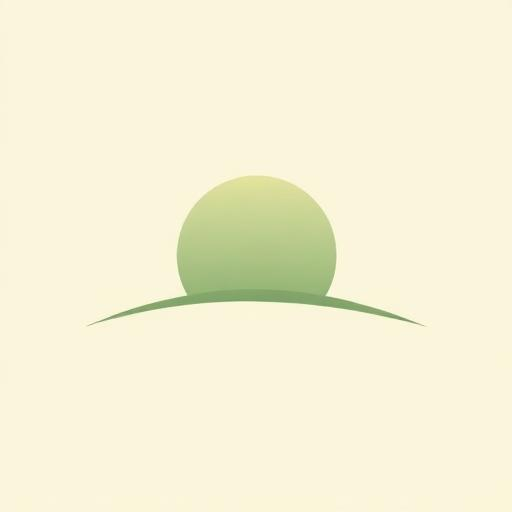
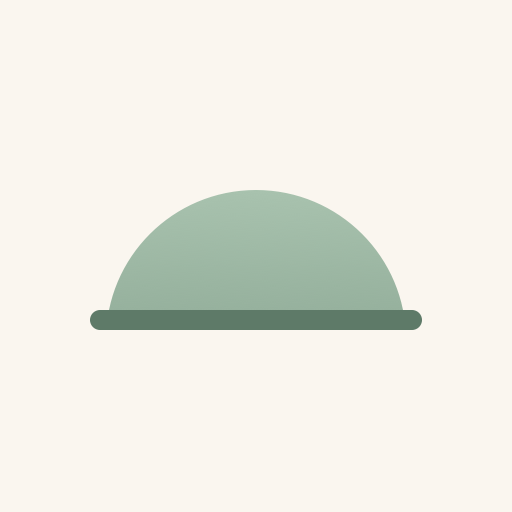
Ícono sol naciente + auditoría exhaustiva pre-publicación
- Ícono: marca cambia de carita triste a sol naciente sobre horizonte; PNG instalables regenerados (arregla icon-192 que medía 512); SVG fuente en repo
- Fuentes: Pauline Boss pasa a cita/mención (sin link a sitio en inglés)
- Directorio: nota para La Guaira y otros estados deriva a 911/Protección Civil nacional, sin inventar número
- Lenguaje: 3 frases en futuro pasadas a presente (training, contacto, niño)
- SEO: elimina meta tags duplicados/inconsistentes en __root
- tel: 3 enlaces locales pasados a formato internacional +58
- PWA: SW v2 cachea fuentes de Google offline; recachea íconos
- A11y: tap targets, aria-labels, BreathingCircle responsive

Changed region(s): [[0.1562, 0.3125, 0.8438, 0.6562]]

diff --git a/src/routes/fuentes.tsx b/src/routes/fuentes.tsx
@@ -17,7 +17,14 @@ export const Route = createFileRoute("/fuentes")({
   component: Fuentes,
 });
 
-const FUENTES = [
+type Fuente = {
+  title: string;
+  body: string;
+  href?: string;
+  source: string;
+};
+
+const FUENTES: Fuente[] = [
   {
     title: "Primeros Auxilios Psicológicos (PAP)",
     body: "Guía de la OMS y la OPS para trabajadores de campo, avalada por el IASC y el Proyecto Esfera.",
@@ -44,9 +51,8 @@ const FUENTES = [
   },
   {
     title: "Pauline Boss",
-    body: "Pérdida ambigua, para familiares de personas no encontradas.",
-    href: "https://www.ambiguousloss.com/",
-    source: "ambiguousloss.com",
+    body: "Concepto de pérdida ambigua, para familiares de personas no encontradas.",
+    source: "Trabajo de la investigadora Pauline Boss, Universidad de Minnesota.",
   },
 ];
 
@@ -57,27 +63,35 @@ function Fuentes() {
       <h1 className="mt-2 font-serif text-3xl text-foreground">¿En qué se basa Serena?</h1>
       <p className="mt-5 text-base leading-relaxed text-foreground/85">
         Todo el contenido de Serena se basa en protocolos reconocidos de apoyo psicológico en
-        emergencias. Cada fuente abre su documento oficial:
+        emergencias. Cuando hay un documento oficial en línea, la fuente abre directo:
       </p>
 
       <ul className="mt-6 space-y-3">
-        {FUENTES.map((f) => (
-          <li key={f.title}>
-            <a
-              href={f.href}
-              target="_blank"
-              rel="noopener noreferrer"
-              className="serena-card flex items-start gap-3 p-5 transition-colors hover:bg-secondary"
-            >
-              <div className="min-w-0 flex-1">
-                <p className="font-serif text-base text-foreground">{f.title}</p>
-                <p className="mt-1.5 text-sm leading-relaxed text-muted-foreground">{f.body}</p>
-                <p className="mt-2 text-xs text-primary">{f.source}</p>
-              </div>
-              <ExternalLink size={16} className="mt-1 shrink-0 text-muted-foreground" />
-            </a>
-          </li>
-        ))}
+        {FUENTES.map((f) =>
+          f.href ? (
+            <li key={f.title}>
+              <a
+                href={f.href}
+                target="_blank"
+                rel="noopener noreferrer"
+                className="serena-card flex items-start gap-3 p-5 transition-colors hover:bg-secondary"
+              >
+                <div className="min-w-0 flex-1">
+                  <p className="font-serif text-base text-foreground">{f.title}</p>
+                  <p className="mt-1.5 text-sm leading-relaxed text-muted-foreground">{f.body}</p>
+                  <p className="mt-2 text-xs text-primary">{f.source}</p>
+                </div>
+                <ExternalLink size={16} className="mt-1 shrink-0 text-muted-foreground" />
+              </a>
+            </li>
+          ) : (
+            <li key={f.title} className="serena-card p-5">
+              <p className="font-serif text-base text-foreground">{f.title}</p>
+              <p className="mt-1.5 text-sm leading-relaxed text-muted-foreground">{f.body}</p>
+              <p className="mt-2 text-xs text-muted-foreground">{f.source}</p>
+            </li>
+          ),
+        )}
       </ul>
 
       <p className="mt-8 text-sm leading-relaxed text-foreground/85">

diff --git a/src/lib/training.ts b/src/lib/training.ts
@@ -26,7 +26,7 @@ export const TRAINING: TrainingModule[] = [
       {
         heading: "Tu presencia basta",
         body: "Lo más valioso que ofreces es estar, con calma. Esto no es terapia y no tienes que resolverlo todo.",
-        example: "No necesitas la frase perfecta. A veces basta con: «aquí estoy, no te voy a dejar solo.»",
+        example: "No necesitas la frase perfecta. A veces basta con: «aquí estoy, no te dejo solo.»",
       },
       {
         heading: "Qué NO es",
@@ -149,7 +149,7 @@ export const TRAINING: TrainingModule[] = [
       {
         heading: "No prometas de más",
         body: "Di lo que sabes; no inventes servicios que quizá no existen.",
-        example: "Mejor «voy a averiguar dónde dan agua» que «ya viene la ayuda».",
+        example: "Mejor «busco dónde dan agua» que «ya viene la ayuda».",
       },
     ],
   },
@@ -248,7 +248,7 @@ export const TRAINING: TrainingModule[] = [
       {
         heading: "Qué decir y qué no",
         body: "No digas «fue la voluntad de Dios», «están en un lugar mejor», «tienes que ser fuerte».",
-        example: "Sí: «Estoy aquí contigo. No te voy a dejar solo.» / «No tienes que decir nada.»",
+        example: "Sí: «Estoy aquí contigo. No te dejo solo.» / «No tienes que decir nada.»",
       },
       {
         heading: "Vigila el riesgo",

diff --git a/src/routes/__root.tsx b/src/routes/__root.tsx
@@ -94,9 +94,10 @@ export const Route = createRootRouteWithContext<{ queryClient: QueryClient }>()(
       { property: "og:type", content: "website" },
       { name: "twitter:card", content: "summary" },
       { name: "twitter:title", content: "Serena — apoyo emocional" },
-      { name: "description", content: "Serena: Tu Refugio Calmado es una PWA de apoyo emocional para momentos de crisis." },
-      { property: "og:description", content: "Serena: Tu Refugio Calmado es una PWA de apoyo emocional para momentos de crisis." },
-      { name: "twitter:description", content: "Serena: Tu Refugio Calmado es una PWA de apoyo emocional para momentos de crisis." },
+      {
+        name: "twitter:description",
+        content: "Un espacio calmado para los primeros momentos. Anónimo y privado.",
+      },
       { property: "og:image", content: "https://pub-bb2e103a32db4e198524a2e9ed8f35b4.r2.dev/73760977-34e1-486e-9ddb-98f852ee9f52/id-preview-0d93d85d--8ebf92b5-3374-4671-9b43-57dae87962f4.lovable.app-1782571978718.png" },
       { name: "twitter:image", content: "https://pub-bb2e103a32db4e198524a2e9ed8f35b4.r2.dev/73760977-34e1-486e-9ddb-98f852ee9f52/id-preview-0d93d85d--8ebf92b5-3374-4671-9b43-57dae87962f4.lovable.app-1782571978718.png" },
     ],

diff --git a/public/sw.js b/public/sw.js
@@ -1,5 +1,5 @@
 // Serena service worker — offline-first calmado.
-const VERSION = "serena-v1";
+const VERSION = "serena-v2";
 const SHELL_CACHE = `${VERSION}-shell`;
 const RUNTIME_CACHE = `${VERSION}-runtime`;
 
@@ -34,6 +34,26 @@ self.addEventListener("fetch", (event) => {
   const req = event.request;
   if (req.method !== "GET") return;
   const url = new URL(req.url);
+
+  // Fuentes de Google (cross-origin): CacheFirst para que el diseño se sostenga offline.
+  if (url.origin === "https://fonts.googleapis.com" || url.origin === "https://fonts.gstatic.com") {
+    event.respondWith(
+      (async () => {
+        const cached = await caches.match(req);
+        if (cached) return cached;
+        try {
+          const fresh = await fetch(req);
+          const cache = await caches.open(RUNTIME_CACHE);
+          cache.put(req, fresh.clone());
+          return fresh;
+        } catch {
+          return cached || Response.error();
+        }
+      })(),
+    );
+    return;
+  }
+
   if (url.origin !== self.location.origin) return;
   if (url.pathname.startsWith("/~oauth")) return;
 

diff --git a/src/components/SerenaMark.tsx b/src/components/SerenaMark.tsx
@@ -15,14 +15,21 @@ export function SerenaMark({ size = 64, className }: Props) {
           <stop offset="0%" stopColor="#A8C2AE" />
           <stop offset="100%" stopColor="#7C9885" />
         </linearGradient>
+        <clipPath id="serena-horizon">
+          <rect x="0" y="0" width="64" height="40" />
+        </clipPath>
       </defs>
-      <circle cx="32" cy="30" r="13" fill="url(#serena-sun)" />
-      <path
-        d="M6 42 Q 32 32 58 42"
+      {/* Sol naciente, recortado por el horizonte */}
+      <circle cx="32" cy="34" r="12" fill="url(#serena-sun)" clipPath="url(#serena-horizon)" />
+      {/* Horizonte recto: línea calma, no una boca */}
+      <line
+        x1="9"
+        y1="40"
+        x2="55"
+        y2="40"
         stroke="#5E7A68"
-        strokeWidth="1.6"
+        strokeWidth="2"
         strokeLinecap="round"
-        fill="none"
       />
     </svg>
   );

diff --git a/src/components/Directory.tsx b/src/components/Directory.tsx
@@ -79,6 +79,11 @@ export function Directory() {
           </ul>
         </section>
       ))}
+      <p className="rounded-2xl border border-border bg-card p-4 text-sm leading-relaxed text-muted-foreground">
+        Por ahora solo tenemos confirmada la Protección Civil de Yaracuy. Si estás en otro estado,
+        como La Guaira, marca el <span className="font-medium text-alert">911</span> o la Protección
+        Civil nacional <span className="tabular-nums">0800-7248451</span>.
+      </p>
       <p className="rounded-2xl border border-border bg-card p-4 text-center text-sm text-muted-foreground">
         Si tú o alguien corre peligro inmediato, llama al{" "}
         <span className="font-medium text-alert">911</span>.

diff --git a/src/components/BreathingCircle.tsx b/src/components/BreathingCircle.tsx
@@ -37,7 +37,7 @@ export function BreathingCircle() {
 
   return (
     <div className="flex flex-col items-center gap-8">
-      <div className="relative grid h-72 w-72 place-items-center">
+      <div className="relative grid h-64 w-64 place-items-center sm:h-72 sm:w-72">
         <div
           className="absolute inset-0 rounded-full bg-sage-soft"
           style={{
@@ -64,6 +64,7 @@ export function BreathingCircle() {
 
       <button
         type="button"
+        aria-label={running ? "Detener la respiración guiada" : "Empezar la respiración guiada"}
         onClick={() => {
           if (running) {
             setRunning(false);

diff --git a/src/components/LightOfTheDay.tsx b/src/components/LightOfTheDay.tsx
@@ -48,7 +48,8 @@ export function LightOfTheDay() {
         <button
           type="button"
           onClick={share}
-          className="inline-flex items-center gap-2 rounded-full border border-border bg-card px-3.5 py-1.5 text-xs text-muted-foreground transition-colors hover:bg-secondary hover:text-foreground"
+          aria-label="Compartir la luz de hoy"
+          className="inline-flex items-center gap-2 rounded-full border border-border bg-card px-4 py-2.5 text-xs text-muted-foreground transition-colors hover:bg-secondary hover:text-foreground"
         >
           <Share2 size={12} />
           {copied ? "Copiado" : "Compartir"}

diff --git a/src/routeTree.gen.ts b/src/routeTree.gen.ts
@@ -718,3 +718,13 @@ const rootRouteChildren: RootRouteChildren = {
 export const routeTree = rootRouteImport
   ._addFileChildren(rootRouteChildren)
   ._addFileTypes<FileRouteTypes>()
+
+import type { getRouter } from './router.tsx'
+import type { startInstance } from './start.ts'
+declare module '@tanstack/react-start' {
+  interface Register {
+    ssr: true
+    router: Awaited<ReturnType<typeof getRouter>>
+    config: Awaited<ReturnType<typeof startInstance.getOptions>>
+  }
+}

diff --git a/src/components/InstallButton.tsx b/src/components/InstallButton.tsx
@@ -84,7 +84,7 @@ export function InstallButton() {
         <button
           type="button"
           onClick={onInstall}
-          className="shrink-0 rounded-full bg-primary px-5 py-2 text-sm font-medium text-primary-foreground transition-transform hover:-translate-y-px"
+          className="shrink-0 rounded-full bg-primary px-5 py-2.5 text-sm font-medium text-primary-foreground transition-transform hover:-translate-y-px"
         >
           Instalar
         </button>

diff --git a/src/routes/para-mi.duelo.tsx b/src/routes/para-mi.duelo.tsx
@@ -35,7 +35,7 @@ function Duelo() {
       <div className="mt-8 rounded-2xl border border-border bg-sage-soft p-5">
         <p className="text-sm font-medium text-sage-deep">Una línea de duelo en Venezuela</p>
         <a
-          href="tel:04242925604"
+          href="tel:+584242925604"
           className="mt-2 flex items-center justify-between rounded-xl bg-card px-4 py-3 text-foreground"
         >
           <span>Psicólogos sin Fronteras / Cesap</span>

diff --git a/src/routes/para-mi.perdiste-todo.tsx b/src/routes/para-mi.perdiste-todo.tsx
@@ -43,7 +43,7 @@ function PerdisteTodo() {
             <span className="tabular-nums">911</span>
           </a>
           <a
-            href="tel:04140179925"
+            href="tel:+584140179925"
             className="flex items-center justify-between rounded-xl bg-card px-4 py-3 text-sm text-foreground ring-1 ring-border"
           >
             <span className="inline-flex items-center gap-2"><Phone size={14} /> Médicos Sin Fronteras · 24/7</span>
